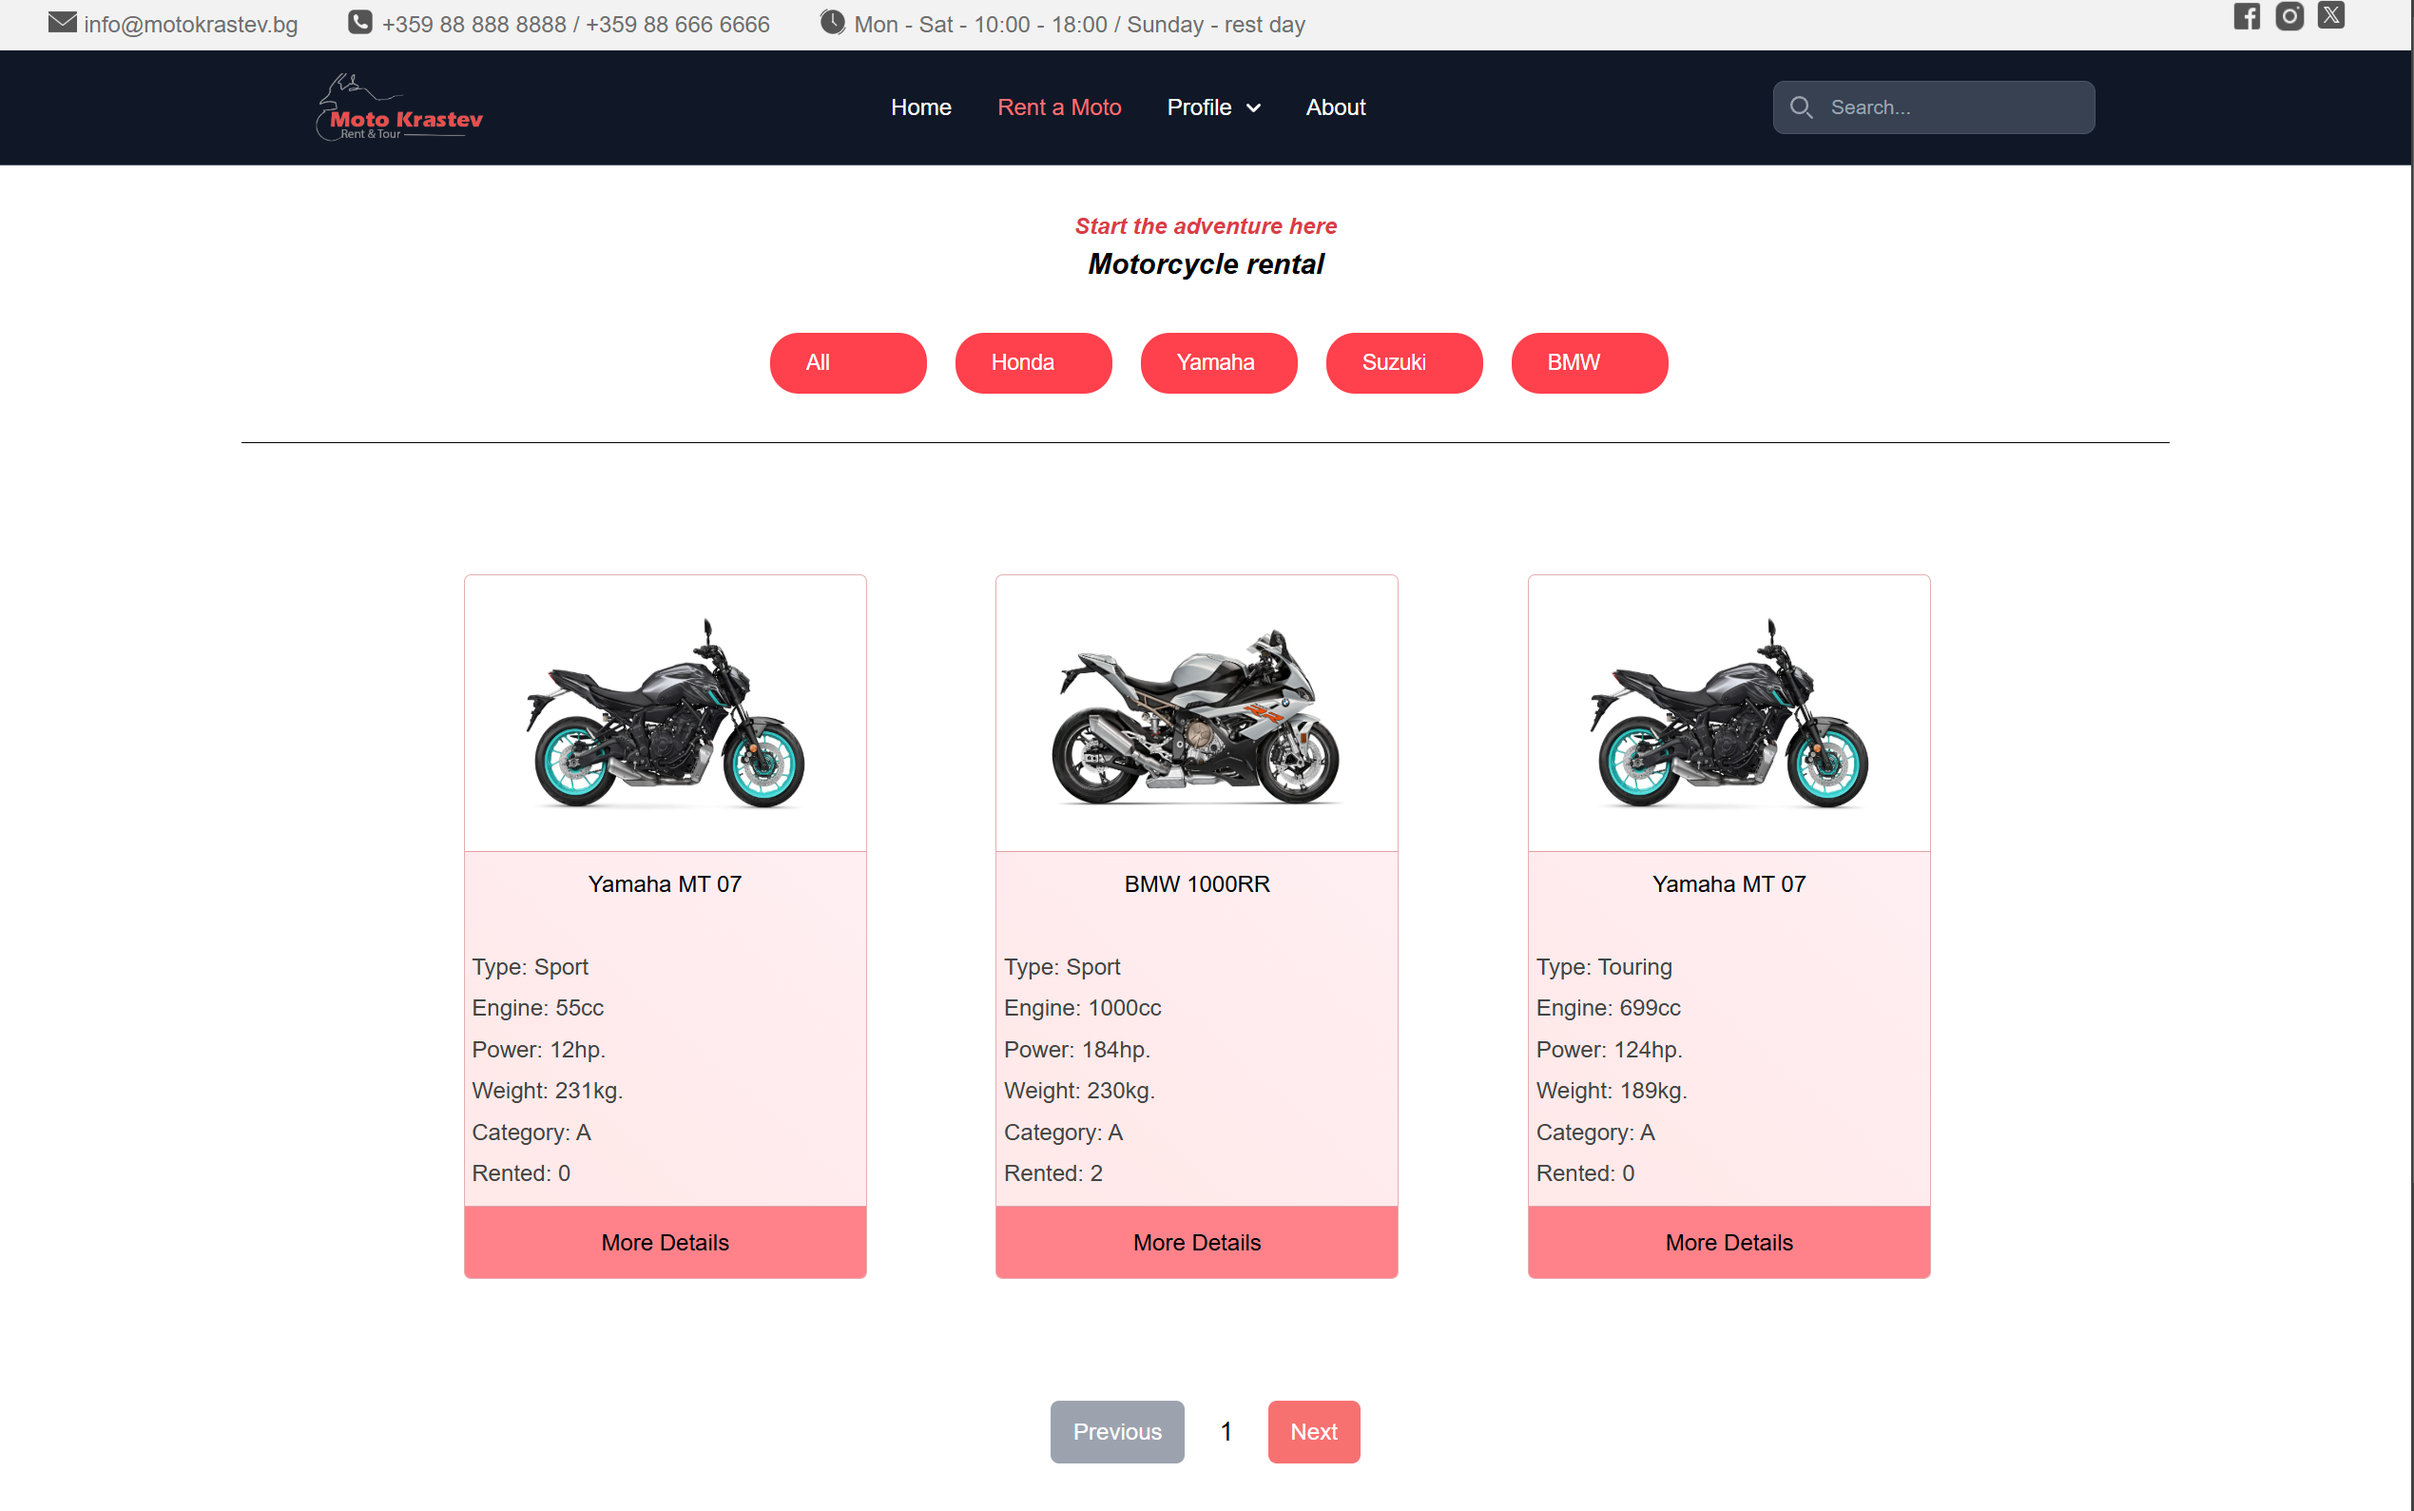
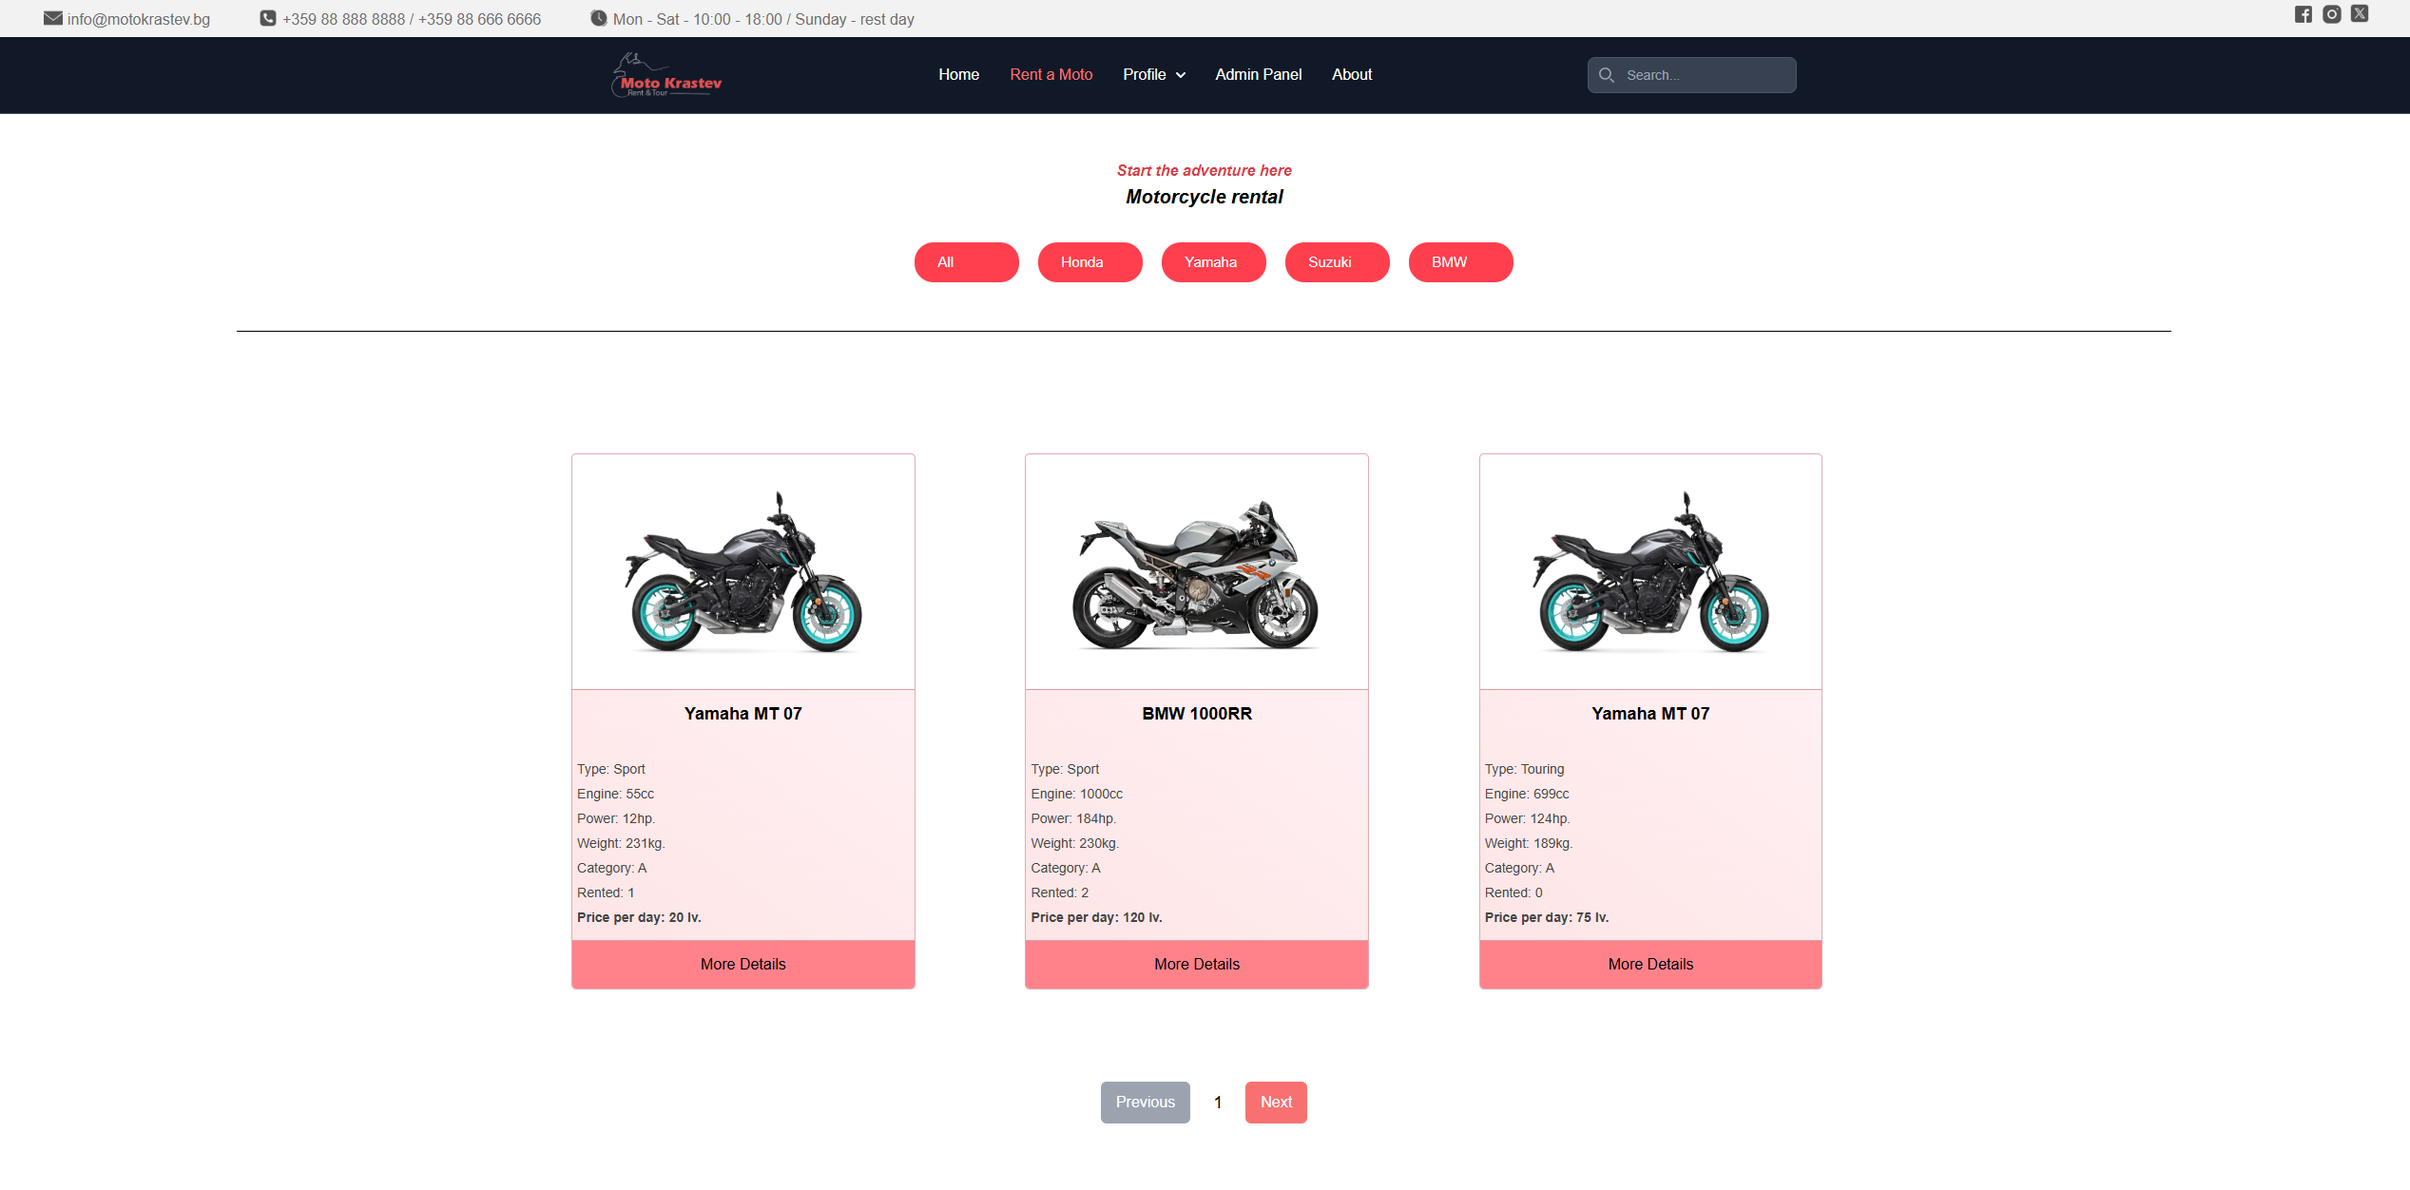
Fix motorcycle card

diff --git a/rental-a-motorcycle/src/components/catalog-motorcycle/CatalogMotorcycle.jsx b/rental-a-motorcycle/src/components/catalog-motorcycle/CatalogMotorcycle.jsx
@@ -38,7 +38,6 @@ export default function CatalogMotorcycle() {
     return (
         <>
             <FilterMotorcycle />
-            
 
             <section className="rent-moto">
             {isLoading && <LoadingSpinner />}
@@ -56,6 +55,7 @@ export default function CatalogMotorcycle() {
                                     <p>Weight: {motorcycle.weight}kg.</p>
                                     <p>Category: {motorcycle.category}</p>
                                     <p>Rented: {motorcycle.reservationCount}</p>
+                                    <p className="price">Price per day: {motorcycle.pricePerDay} lv.</p>
                                 </div>
                                 <input type="submit" name="submit" value="More Details" />
                             </div>

diff --git a/rental-a-motorcycle/src/components/most-rented/MostRented.jsx b/rental-a-motorcycle/src/components/most-rented/MostRented.jsx
@@ -29,6 +29,7 @@ export default function MostRented() {
                                     <p>Weight: {motorcycle.weight}kg.</p>
                                     <p>Category: {motorcycle.category}</p>
                                     <p>Rented: {motorcycle.reservationCount}</p>
+                                    <p className="price">Price per day: {motorcycle.pricePerDay} lv.</p>
                                 </div>
                                 <input type="submit" name="submit" value="More Details" />
                             </div>

diff --git a/rental-a-motorcycle/src/components/search/Search.jsx b/rental-a-motorcycle/src/components/search/Search.jsx
@@ -48,6 +48,7 @@ export default function Search() {
                                     <p>Weight: {motorcycle.weight}kg.</p>
                                     <p>Category: {motorcycle.category}</p>
                                     <p>Rented: {motorcycle.reservationCount}</p>
+                                    <p className="price">Price per day: {motorcycle.pricePerDay} lv.</p>
                                 </div>
                                 <input type="submit" name="submit" value="More Details" />
                             </div>

diff --git a/rental-a-motorcycle/src/components/most-rented/MostRented.css b/rental-a-motorcycle/src/components/most-rented/MostRented.css
@@ -9,6 +9,27 @@
     color:  black;
 }
 
+.moto-info {
+    padding: 10px 0;
+}
+
+.moto-info h4 {
+    margin-bottom: 10px;
+    font-size: 18px;
+    font-weight: bold;
+}
+
+.moto-info p {
+    margin: 5px 0;
+    font-size: 14px;
+}
+
+.price {
+    font-weight: bold;
+    color: #ff3f4d;
+}
+
+
 .frequently-box-3{
     border: 1px solid rgba(181,46,55,0.4);
     border-radius: 5px;
